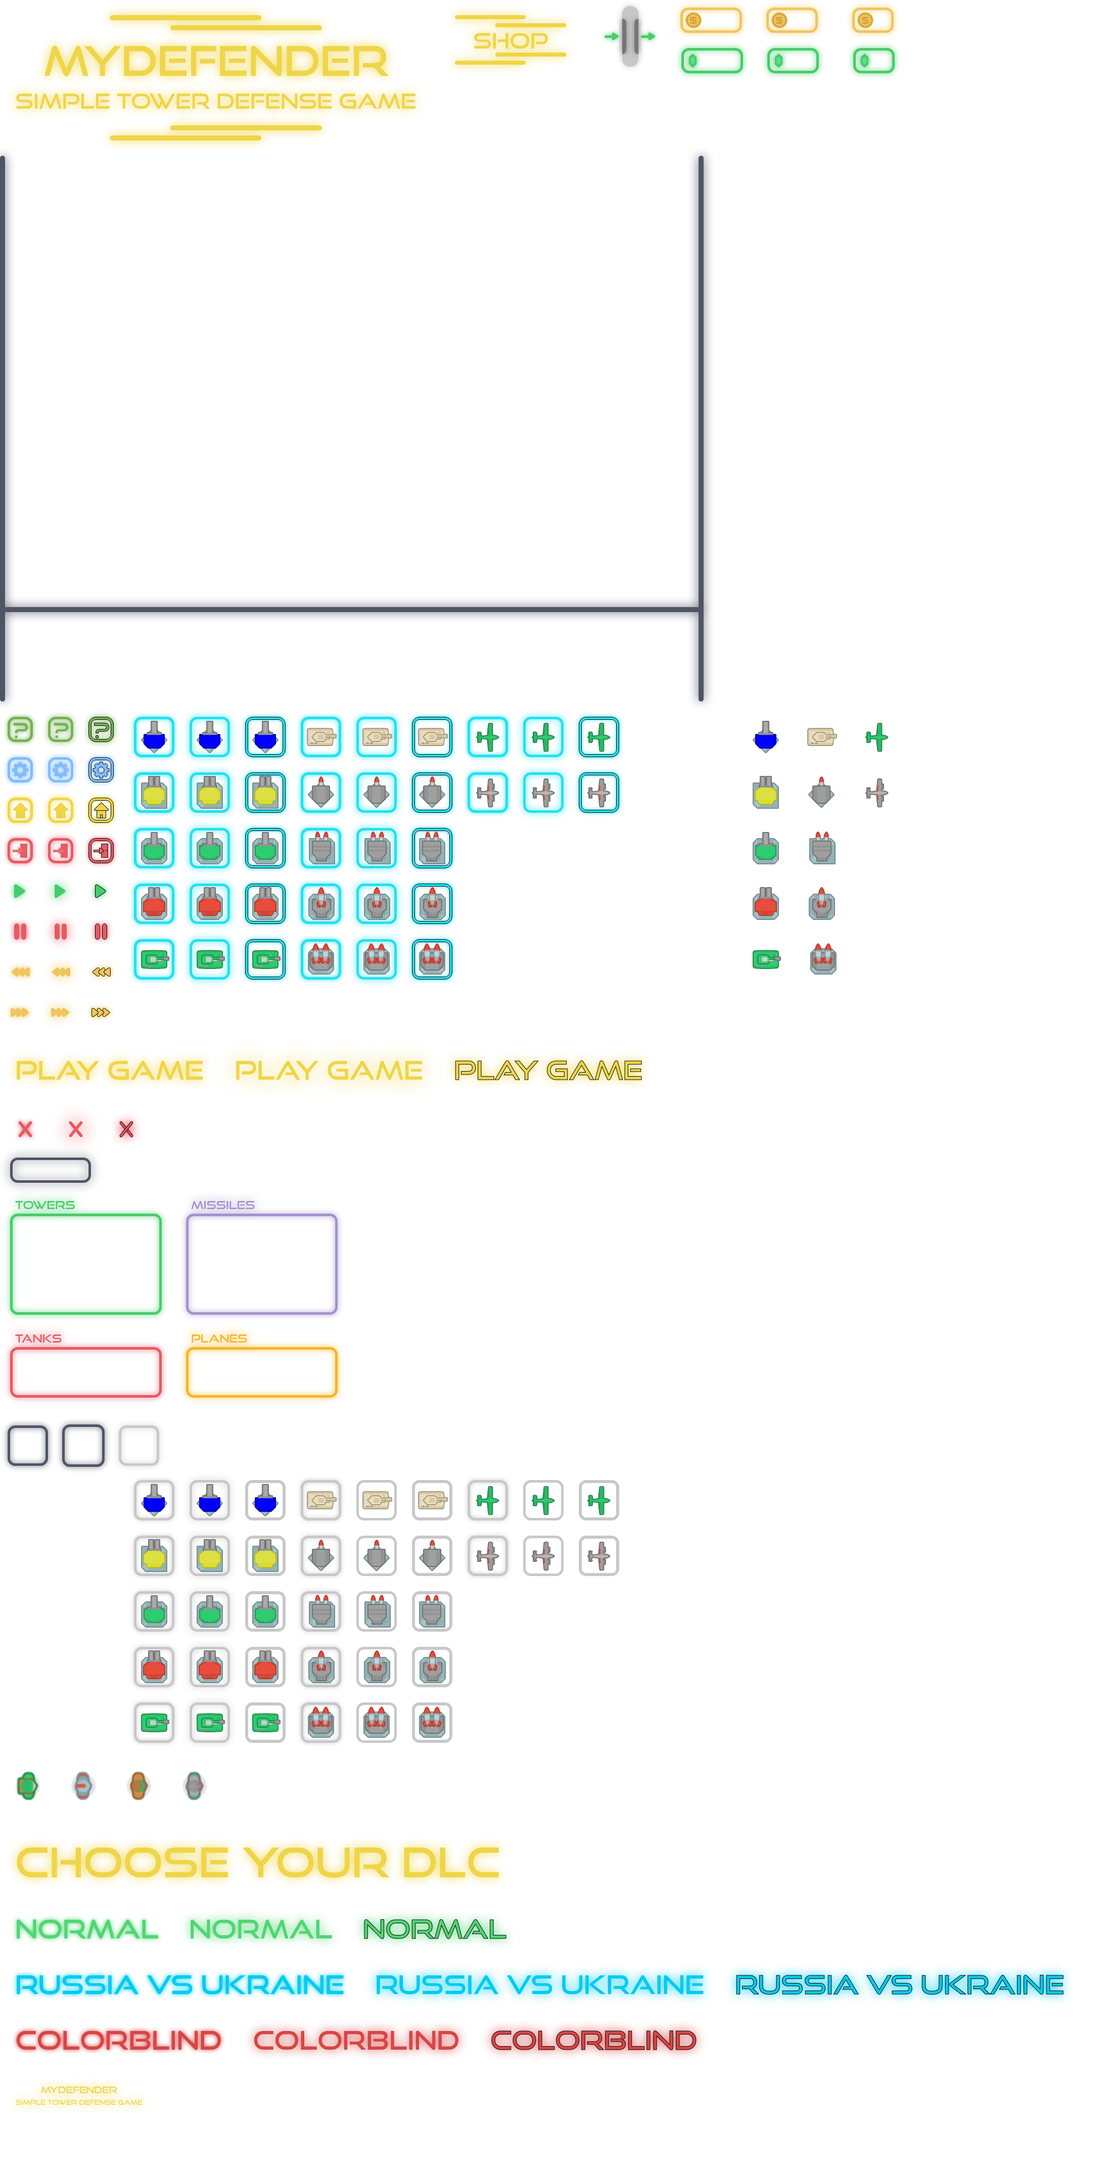
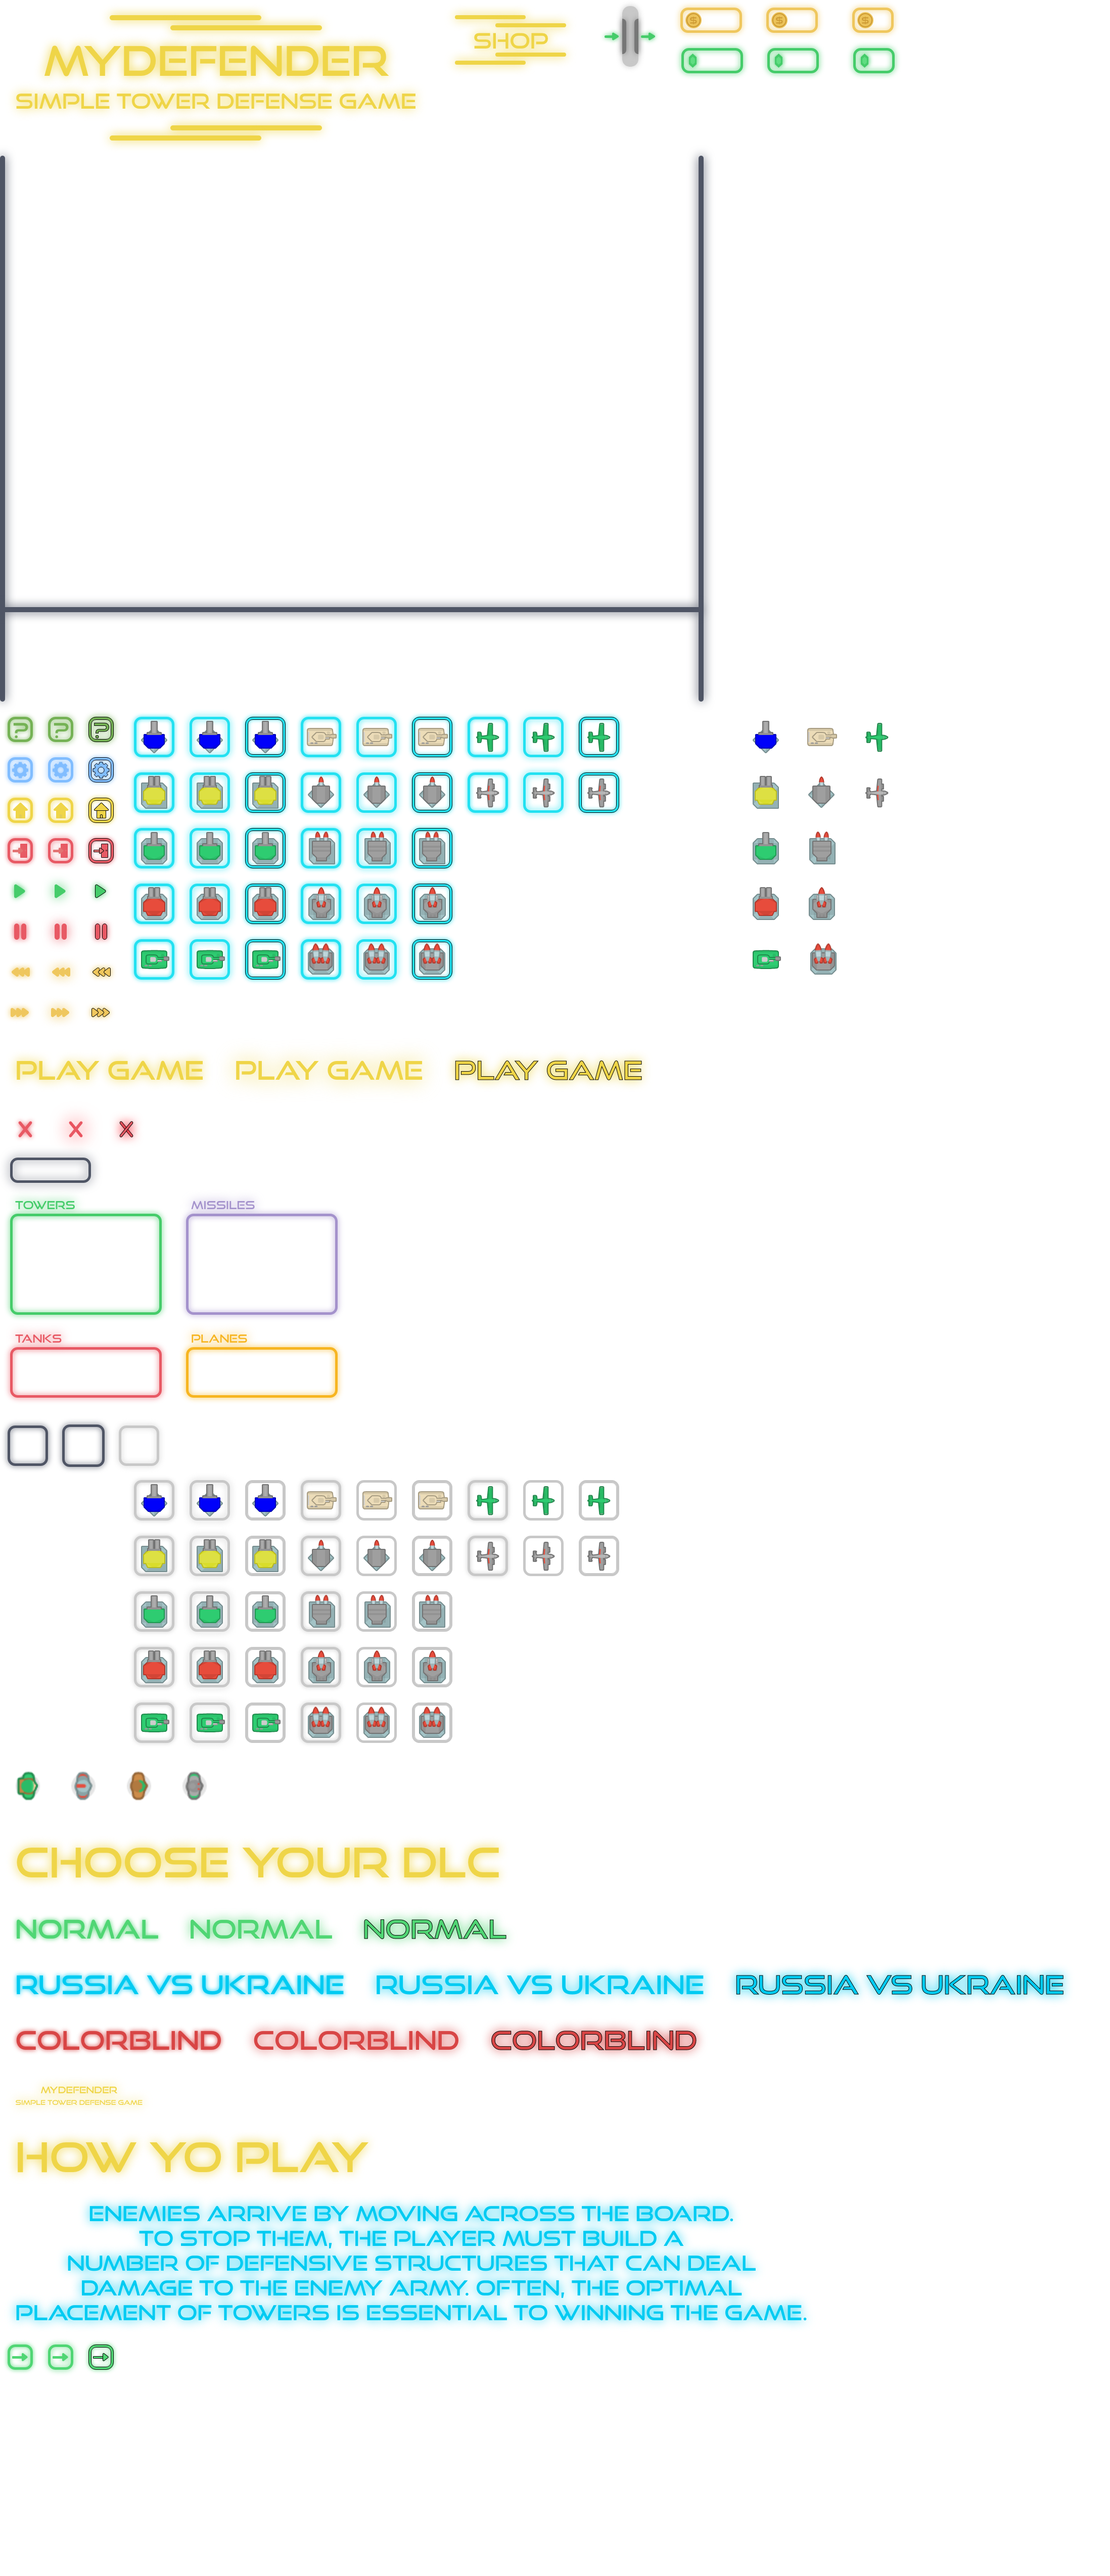
add how to play

diff --git a/src/setup/buttons/initializer.c b/src/setup/buttons/initializer.c
@@ -258,13 +258,13 @@ node_button *setup_buttons(dfd *df)
 
     setup_first_button(&node, setup_button(df, PLAY, play_button));
     add_button(&node, setup_button(df, QUIT, quit_button));
-    add_button(&node, setup_button(df, HELPER, quit_button));
-    add_button(&node, setup_button(df, SETTING, quit_button));
-    add_button(&node, setup_button(df, HOME, quit_button));
+    add_button(&node, setup_button(df, HELPER, help_menu));
+    add_button(&node, setup_button(df, SETTING, nothing));
+    add_button(&node, setup_button(df, HOME, nothing));
     add_button(&node, setup_button(df, QUIT2, quit_button));
-    add_button(&node, setup_button(df, TIME_DOWN, quit_button));
-    add_button(&node, setup_button(df, TIME_UP, quit_button));
-    add_button(&node, setup_button(df, PAUSE, quit_button));
+    add_button(&node, setup_button(df, TIME_DOWN, nothing));
+    add_button(&node, setup_button(df, TIME_UP, nothing));
+    add_button(&node, setup_button(df, PAUSE, nothing));
     add_button(&node, setup_button(df, TOWER_1, d_and_d));
     add_button(&node, setup_button(df, TOWER_2, d_and_d));
     add_button(&node, setup_button(df, TOWER_3, d_and_d));

diff --git a/src/setup/buttons/initializer_2.c b/src/setup/buttons/initializer_2.c
@@ -92,6 +92,10 @@ cf DLC_1[12] = {728, 390, 0, 3760, 110, 344, 2, 758, 414, 284, 61, SELECT};
 cf DLC_2[12] = {544, 486, 0, 3870, 110, 712, 2, 574, 510, 652, 61, SELECT};
 cf DLC_3[12] = {665, 582, 0, 3980, 110, 470, 2, 695, 606, 409, 61, SELECT};
 
+cf HOME_2[12] = {1660, 1005, 0, 1563, 80, 80, 2, 1675, 1020, 50, 50, HELP};
+cf QUIT_2[12] = {1720, 1005, 0, 1643, 80, 80, 2, 1735, 1020, 50, 50,HELP};
+cf BACK[12] = {1600, 1005, 0, 4623, 80, 80, 2, 1615, 1020, 50, 50,HELP};
+
 /*
  * Suite de l'initialisation des boutons
  */
@@ -100,6 +104,9 @@ node_button *re7_next_buttons(dfd *df, node_button *node)
 {
     add_button(&node, setup_button(df, DLC_2, select_RU_UK));
     add_button(&node, setup_button(df, DLC_3, nothing));
+    add_button(&node, setup_button(df, HOME_2, home_menu));
+    add_button(&node, setup_button(df, QUIT_2, quit_button));
+    add_button(&node, setup_button(df, BACK, play_button));
     return node;
 }
 

diff --git a/src/setup/img/initializer.c b/src/setup/img/initializer.c
@@ -50,7 +50,10 @@ cf PLANE_D_1[9] = {1441, 906, 1680, 1403, 110, 110, 0, NEVER, -1};
 cf PLANE_D_2[9] = {1541, 906, 1680, 1513, 110, 110, 0, NEVER, -1};
 
 cf DLC[12] = {390, 63, 0, 3603, 157, 1020, 0, SELECT, -1};
-cf NAME[12] = {711, 961, 0, 4090, 110, 313, 0, SELECT, -1};
+cf NAME[12] = {744, 961, 0, 4090, 110, 313, 0, SEL_HEL, -1};
+
+cf HELP_T[12] = {520, 73, 0, 4196, 137, 760, 0, HELP, -1};
+cf HELP_SB[12] = {84, 398, 0, 4333, 285, 1632, 0, HELP, -1};
 
 node_img *next_img(dfd *df, node_img *node)
 {
@@ -63,6 +66,8 @@ node_img *next_img(dfd *df, node_img *node)
     add_to_list_img(&node, setup_a_anim_img(df, PLANE_D_2));
     add_to_list_img(&node, setup_a_anim_img(df, DLC));
     add_to_list_img(&node, setup_a_anim_img(df, NAME));
+    add_to_list_img(&node, setup_a_anim_img(df, HELP_SB));
+    add_to_list_img(&node, setup_a_anim_img(df, HELP_T));
     return node;
 }
 

diff --git a/src/game/actions/buttons_2.c b/src/game/actions/buttons_2.c
@@ -7,6 +7,7 @@
 
 #include "actions.h"
 #include "utils.h"
+#include "game.h"
 
 void select_normal(my_defender_pointer *defender)
 {
@@ -16,4 +17,14 @@ void select_normal(my_defender_pointer *defender)
 void select_RU_UK(my_defender_pointer *defender)
 {
     select_RU_UK_texture((dfd *) defender);
+}
+
+void help_menu(my_defender_pointer *defender)
+{
+    switch_step((dfd *) defender, HELP);
+}
+
+void home_menu(my_defender_pointer *defender)
+{
+    switch_step((dfd *) defender, OPEN);
 }

diff --git a/src/utils/steps.c b/src/utils/steps.c
@@ -28,9 +28,12 @@ int display(int step, int actual)
 {
     if (step == actual)
         return 1;
-    if (step == MAINA && (actual == MAIN || actual == DRAG_1 || actual == DRAG_2))
+    if (step == MAINA &&
+        (actual == MAIN || actual == DRAG_1 || actual == DRAG_2))
         return 1;
     if (step == SEL_OP && (actual == SELECT || actual == OPEN))
+        return 1;
+    if (step == SEL_HEL && (actual == SELECT || actual == HELP))
         return 1;
     return 0;
 }

diff --git a/include/actions.h b/include/actions.h
@@ -24,4 +24,8 @@ void select_normal(my_defender_pointer *defender);
 
 void select_RU_UK(my_defender_pointer *defender);
 
+void help_menu(my_defender_pointer *defender);
+
+void home_menu(my_defender_pointer *defender);
+
 #endif

diff --git a/include/game.h b/include/game.h
@@ -30,6 +30,7 @@ enum Steps {
     ENEMY,
     SELECT,
     SEL_OP,
+    SEL_HEL,
 };
 
 enum All_building {
